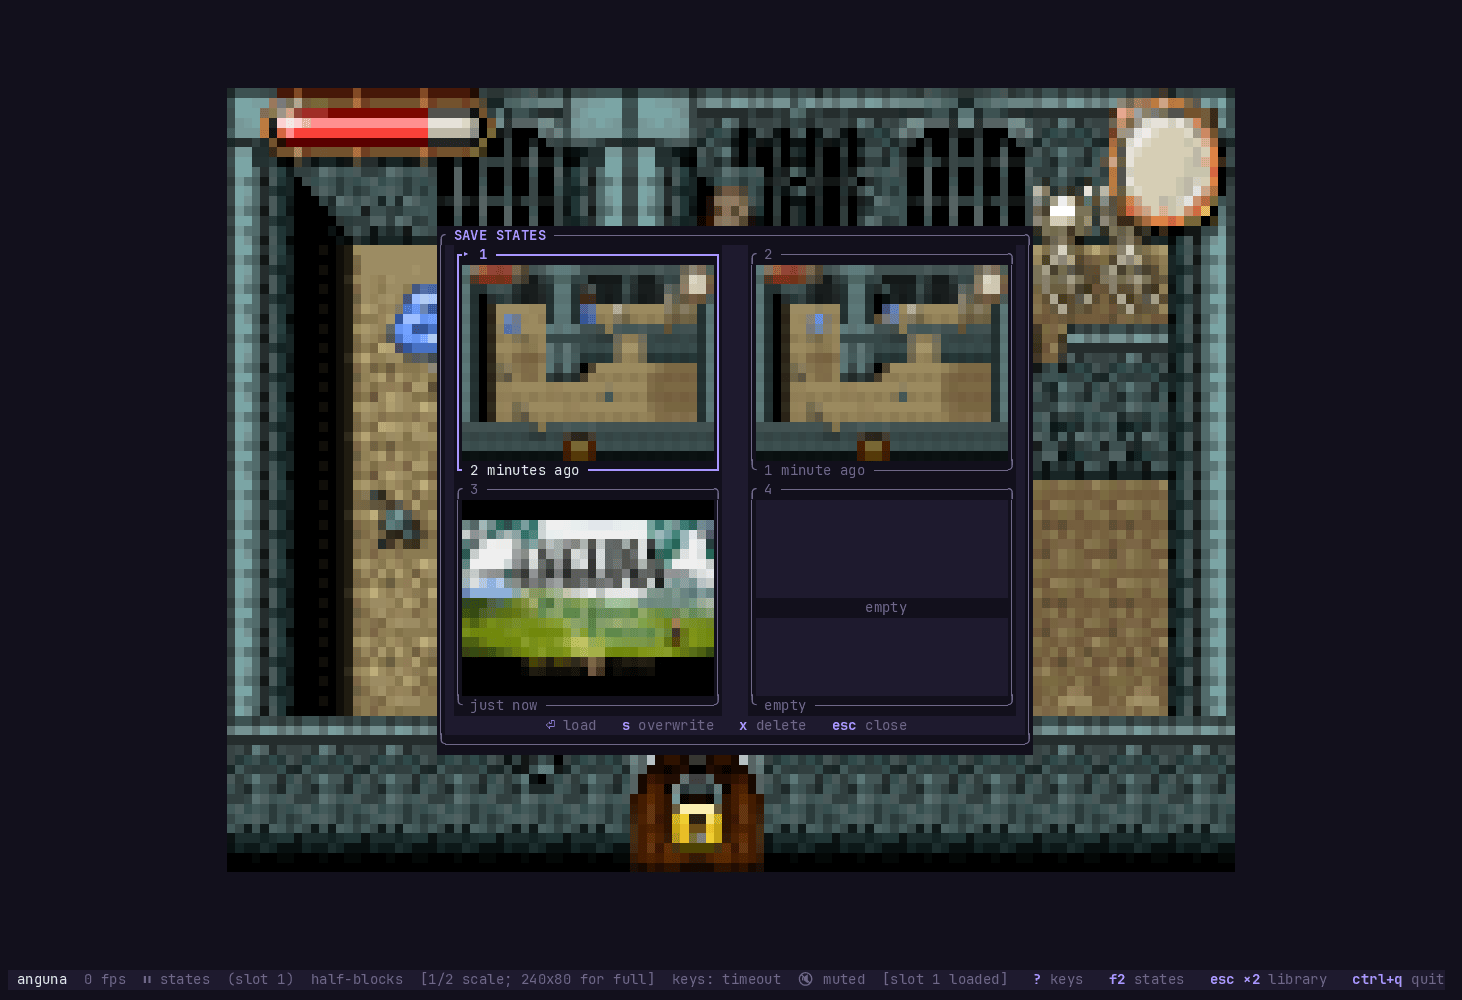
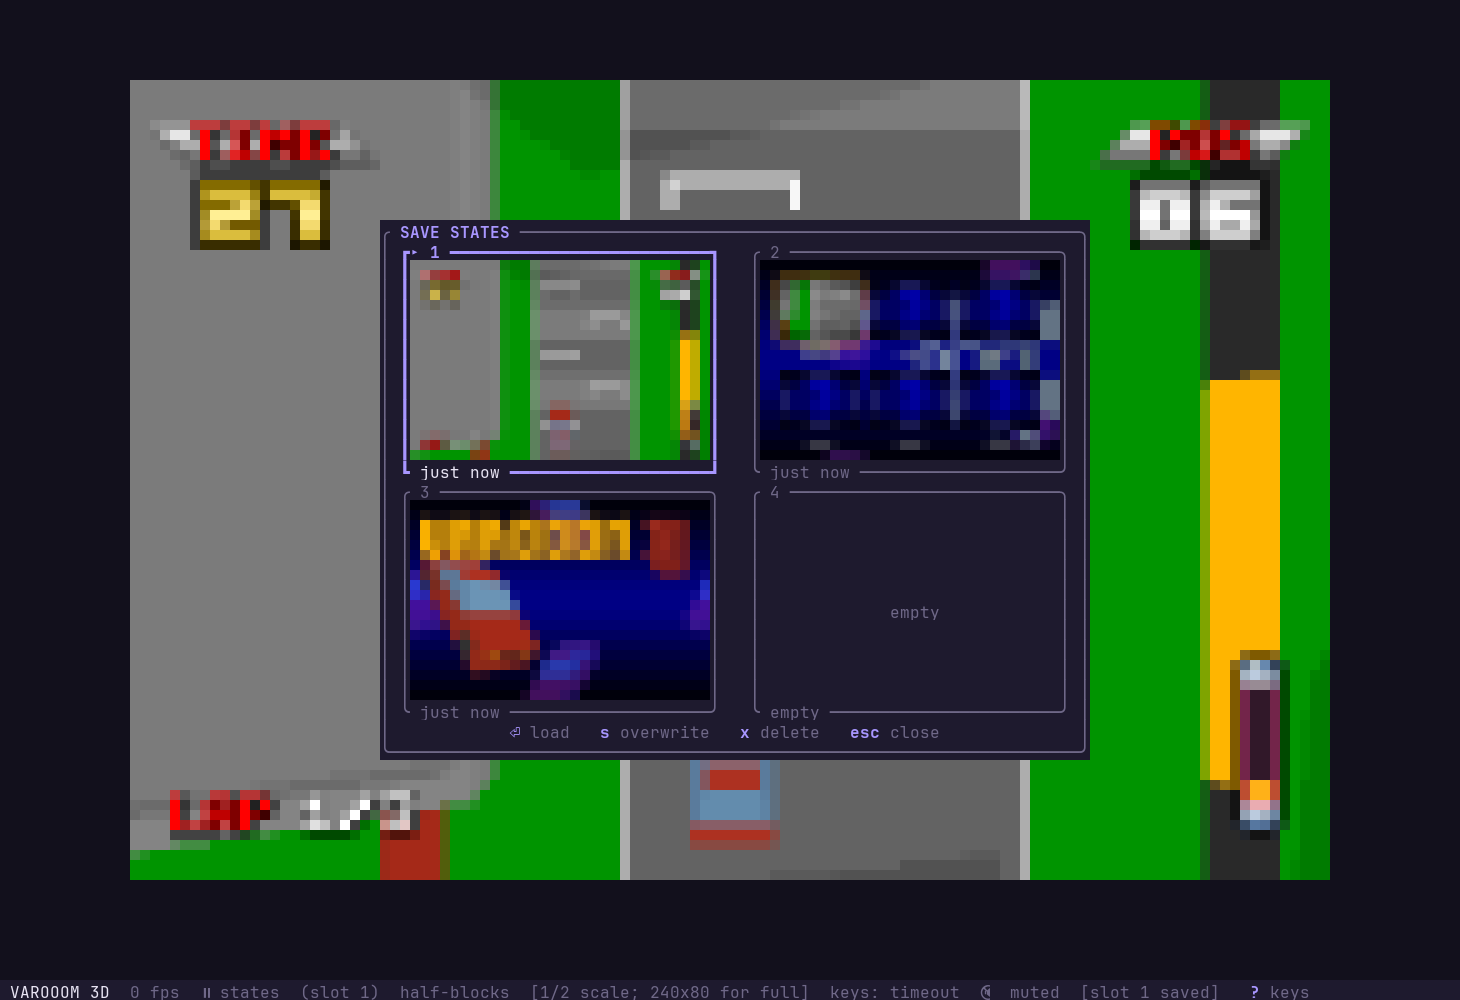
docs: new screenshots and four more tested homebrew games

diff --git a/README.md b/README.md
@@ -67,6 +67,22 @@ Tested with freely distributed homebrew:
 | Aereven Advance (jam build)  | Plays                                                                 |
 | Heartwrench Advance          | Plays, SRAM saves                                                     |
 | Pliko                        | Plays                                                                 |
+| Butano Fighter               | Plays (built from the [Butano](https://github.com/GValiente/butano) sources) |
+| Varooom 3D                   | Plays, races in its software-rendered 3D                              |
+| BeatBeast (jam build)        | Plays, 32 MiB cartridge                                               |
+| uCity Advance                | Plays, scenarios load and the city runs                               |
+
+<p align="center">
+  <img src="https://raw.githubusercontent.com/Huseynteymurzade28/tuiba/master/docs/games.png" alt="Six homebrew games running in tuiba: a dungeon in Anguna, Butano Fighter's top-down shooting, Varooom 3D's title and a race, BeatBeast's rhythm tutorial and a city in uCity Advance" width="800">
+  <br>
+  <sub>Frames from tuiba's headless mode, at 2×.
+  <a href="https://gauauu.itch.io/anguna">Anguna</a> © Nathan Tolbert and Chris Hildenbrand (MIT) ·
+  <a href="https://github.com/GValiente/butano/tree/master/games/butano-fighter">Butano Fighter</a> and
+  <a href="https://github.com/GValiente/butano/tree/master/games/varooom-3d">Varooom 3D</a> by GValiente and contributors (code zlib; art CC0 and CC BY-NC-SA 4.0) ·
+  <a href="https://github.com/afska/beat-beast">BeatBeast</a> by afska and team (code MIT; art under the CC licences in its release) ·
+  <a href="https://github.com/AntonioND/ucity-advance">uCity Advance</a> by Antonio Niño Díaz (code GPL-3.0; art CC BY-NC-SA 4.0).
+  The screenshots carry the games' own licences.</sub>
+</p>
 
 No ROMs are needed to build or test the project. CI additionally runs
 freely licensed test ROMs ([jsmolka/gba-tests](https://github.com/jsmolka/gba-tests):
@@ -165,9 +181,9 @@ cartridges that never save and in the middle of a boss fight alike.
 on and how long ago that was, with the game paused behind it.
 
 <p align="center">
-  <img src="https://raw.githubusercontent.com/Huseynteymurzade28/tuiba/master/docs/states.png" alt="The save-state panel over a paused game: two slots with dungeon thumbnails, one with the title screen, one empty" width="800">
+  <img src="https://raw.githubusercontent.com/Huseynteymurzade28/tuiba/master/docs/states.png" alt="The save-state panel over a paused race: slots with a race, the course select and the title screen, one empty" width="800">
   <br>
-  <sub>The save-state panel, opened with <code>F2</code>. Game: <a href="https://gauauu.itch.io/anguna">Anguna</a>.</sub>
+  <sub>The save-state panel, opened with <code>F2</code>. Game: <a href="https://github.com/GValiente/butano/tree/master/games/varooom-3d">Varooom 3D</a> (CC BY-NC-SA 4.0).</sub>
 </p>
 
 States are written to `~/.local/state/tuiba/states/` (or
@@ -241,9 +257,9 @@ frame steps stop at breakpoints too. Breakpoints last until you leave
 the game.
 
 <p align="center">
-  <img src="https://raw.githubusercontent.com/Huseynteymurzade28/tuiba/master/docs/debug.png" alt="The debugger beside the paused game: registers, flags, PPU position and the disassembly around the program counter" width="800">
+  <img src="https://raw.githubusercontent.com/Huseynteymurzade28/tuiba/master/docs/debug.png" alt="The debugger beside a paused race: registers, flags, PPU position and the disassembly of the game's interrupt handler" width="800">
   <br>
-  <sub>The debugger, opened with <code>F7</code>, stopped in the middle of a frame.</sub>
+  <sub>The debugger, opened with <code>F7</code>, stopped in the game's interrupt handler in the middle of a frame. Game: <a href="https://github.com/GValiente/butano/tree/master/games/varooom-3d">Varooom 3D</a>.</sub>
 </p>
 
 GBA games were coloured for the console's dim, low-contrast LCD, so on
